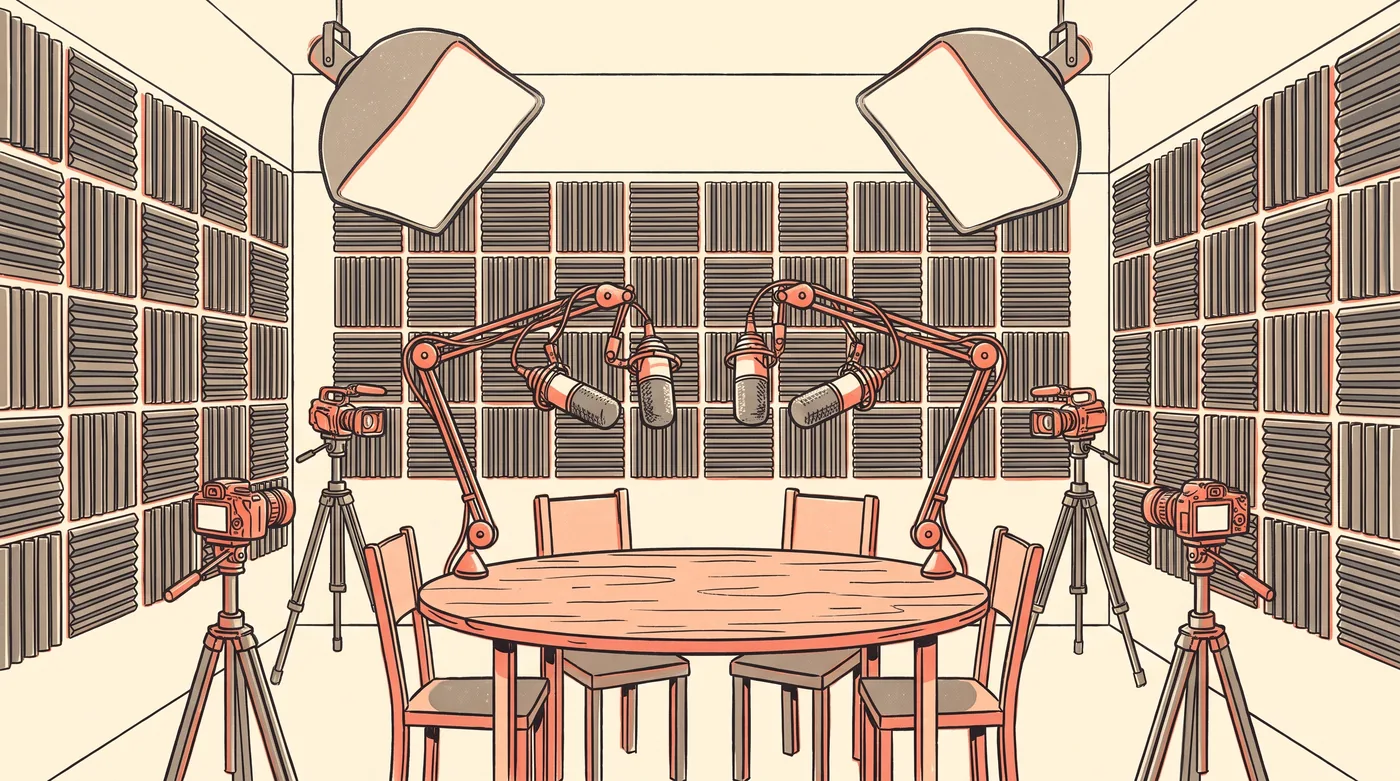
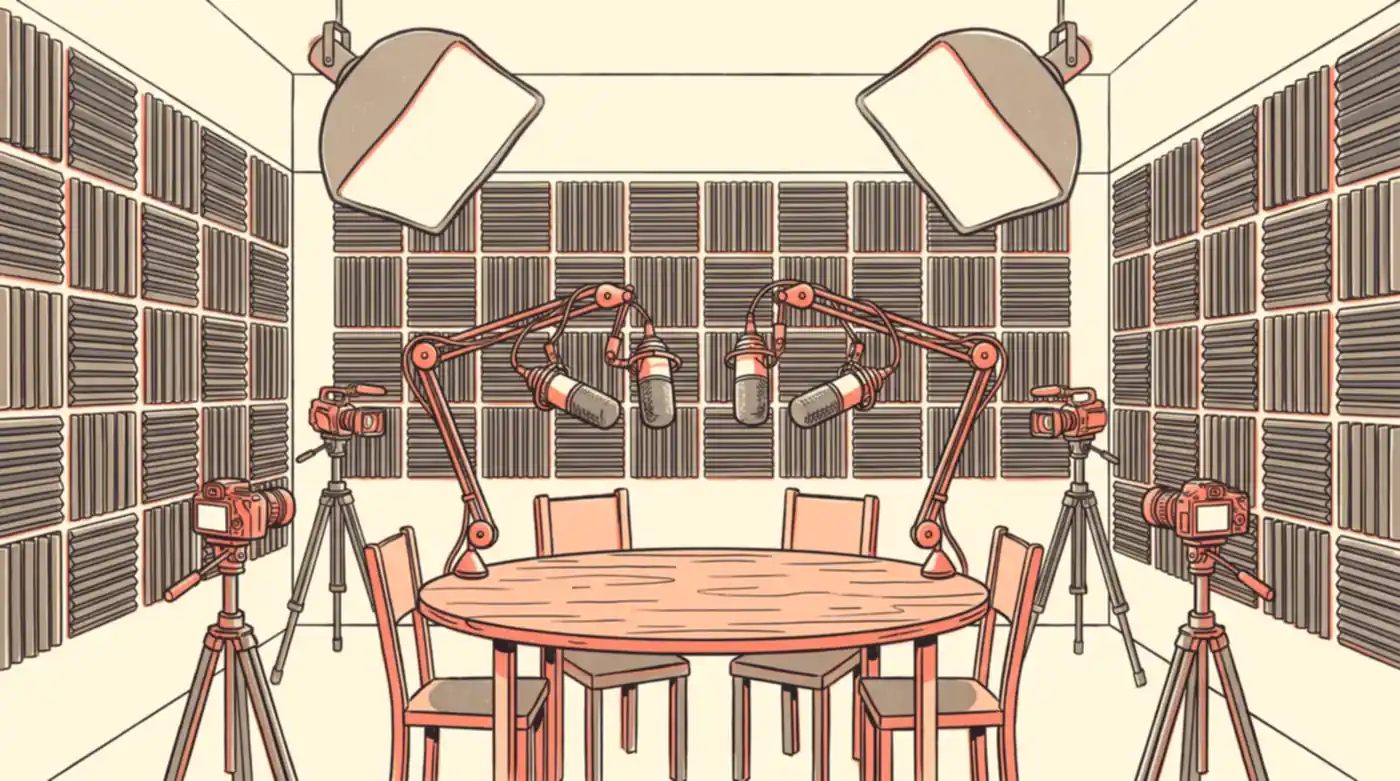
WP3: room page fold, spec row, honest room copy, MediaSlot cleanup
- Cap the art band at lg (40vh) so #book starts at 801px on 1440x900;
  caption moves out of the image onto the container axis.
- Rates card removed; spec row gains the hourly rate and booking rules
  from BOOKING_CONFIG. H2s use type-section; Good for is a plain line.
- Other rooms: token radius, 96px sizes, hairline instead of a band.
- Metadata: openGraph repeats type/siteName/locale; breadcrumb JSON-LD
  drops the /#rooms fragment item.
- MediaSlot: preload instead of deprecated priority; dead label branch
  removed; poster is required.
- rooms-data copy grounded in the equipment lists; inch marks spelled out.
- podcast-a.webp re-encoded 203 KB -> 74 KB at 1400x781.

Claude-Session: https://claude.ai/code/session_01BZXVSE9tt3Z83wFD8iV5RK

diff --git a/src/app/(site)/rooms/[id]/page.tsx b/src/app/(site)/rooms/[id]/page.tsx
@@ -3,13 +3,13 @@ import Link from "next/link";
 import { Suspense } from "react";
 import { notFound } from "next/navigation";
 import { getRoomById, ROOMS } from "@/lib/rooms-data";
-import { SITE_URL } from "@/lib/site-config";
+import { SITE, SITE_URL } from "@/lib/site-config";
 import { MediaSlot } from "@/components/MediaSlot";
 import Image from "next/image";
 import { JsonLd } from "@/components/JsonLd";
-import { formatUsd, formatUsdPerHour } from "@/lib/format";
+import { formatUsdPerHour } from "@/lib/format";
 import { BookingFlow } from "@/components/booking/BookingFlow";
-import { ROOM_TYPE_LABELS } from "@/types/domain";
+import { BOOKING_CONFIG, ROOM_TYPE_LABELS } from "@/types/domain";
 
 export function generateStaticParams() {
   return ROOMS.filter((r) => r.active).map((r) => ({ id: r.id }));
@@ -19,11 +19,21 @@ export async function generateMetadata(props: PageProps<"/rooms/[id]">): Promise
   const room = getRoomById((await props.params).id);
   if (!room) return {};
   const title = `${room.name}: ${ROOM_TYPE_LABELS[room.type].toLowerCase()} room, ${formatUsdPerHour(room.hourlyRateCents)}`;
+  const description = `${room.tagline} ${room.description}`;
   return {
     title,
-    description: `${room.tagline} ${room.description}`,
+    description,
     alternates: { canonical: `/rooms/${room.id}` },
-    openGraph: { title, description: room.tagline, url: `/rooms/${room.id}`, images: [`/rooms/og/${room.id}.png`] },
+    // openGraph replaces the root layout's object wholesale, so repeat its fields.
+    openGraph: {
+      title,
+      description,
+      url: `/rooms/${room.id}`,
+      type: "website",
+      siteName: SITE.name,
+      locale: "en_US",
+      images: [`/rooms/og/${room.id}.png`],
+    },
   };
 }
 
@@ -68,8 +78,7 @@ export default async function RoomDetailPage(props: PageProps<"/rooms/[id]">) {
             "@type": "BreadcrumbList",
             itemListElement: [
               { "@type": "ListItem", position: 1, name: "Home", item: SITE_URL },
-              { "@type": "ListItem", position: 2, name: "Rooms", item: `${SITE_URL}/#rooms` },
-              { "@type": "ListItem", position: 3, name: room.name, item: url },
+              { "@type": "ListItem", position: 2, name: room.name, item: url },
             ],
           },
         ]}
@@ -91,34 +100,40 @@ export default async function RoomDetailPage(props: PageProps<"/rooms/[id]">) {
             <h1 className="font-display text-5xl font-semibold leading-[0.98] text-text-primary sm:text-7xl">{room.name}</h1>
             <p className="text-xl text-text-secondary sm:text-2xl">{room.tagline}</p>
           </div>
-          <dl className="grid grid-cols-3 gap-6 border-t border-border-subtle pt-5 lg:border-t-0 lg:pt-0">
-            {[
-              ["Type", ROOM_TYPE_LABELS[room.type]],
-              ["Fits", `${room.capacity} people`],
-              ["Size", `${room.sqft} sq ft`],
-            ].map(([k, v]) => (
-              <div key={k} className="flex flex-col gap-1">
-                <dt className="text-sm text-text-secondary">{k}</dt>
-                <dd className="tabular font-semibold text-text-primary">{v}</dd>
-              </div>
-            ))}
-          </dl>
+          <div className="flex flex-col gap-3 border-t border-border-subtle pt-5 lg:border-t-0 lg:pt-0">
+            <dl className="grid grid-cols-2 gap-x-6 sm:grid-cols-4 gap-y-4">
+              {[
+                ["Type", ROOM_TYPE_LABELS[room.type], ""],
+                ["Fits", `${room.capacity} people`, "tabular-nums"],
+                ["Size", `${room.sqft} sq ft`, "tabular-nums"],
+                ["Rate", formatUsdPerHour(room.hourlyRateCents), "tabular"],
+              ].map(([k, v, figures]) => (
+                <div key={k} className="flex flex-col gap-1">
+                  <dt className="text-sm text-text-secondary">{k}</dt>
+                  <dd className={`whitespace-nowrap font-semibold text-text-primary ${figures}`}>{v}</dd>
+                </div>
+              ))}
+            </dl>
+            <p className="text-sm text-text-secondary">
+              Starts on the hour · 1 to 3 hours · {BOOKING_CONFIG.minBookingNoticeHours} hours&apos; notice same day
+            </p>
+          </div>
         </div>
       </section>
 
-      <figure className="relative">
+      <figure>
         <MediaSlot
           video={room.reel}
           poster={`/rooms/art/${room.id}.webp`}
           alt={`Illustration of ${room.name}: ${room.description}`}
-          priority
+          preload
           sizes="100vw"
-          className="aspect-[16/10] w-full sm:aspect-[21/9]"
-          imageClassName="object-cover"
+          className="aspect-[16/10] w-full sm:aspect-[21/9] lg:max-h-[40vh]"
+          imageClassName="object-cover object-center"
         />
         {!room.reel && (
-          <figcaption className="absolute bottom-3 left-3 rounded-token-full bg-surface/90 px-3 py-1 text-xs text-text-secondary">
-            Illustration of the setup
+          <figcaption className="px-6 pt-3 text-sm text-text-secondary">
+            <span className="mx-auto block max-w-6xl">Illustration of the setup</span>
           </figcaption>
         )}
       </figure>
@@ -127,12 +142,12 @@ export default async function RoomDetailPage(props: PageProps<"/rooms/[id]">) {
         <div className="mx-auto grid max-w-6xl gap-12 lg:grid-cols-[minmax(0,1.1fr)_minmax(0,1fr)] lg:gap-16">
           <div className="order-2 flex flex-col gap-12 lg:order-1">
             <section className="flex flex-col gap-4">
-              <h2 className="font-display text-3xl font-semibold text-text-primary">About the room</h2>
+              <h2 className="type-section text-text-primary">About the room</h2>
               <p className="text-lg leading-relaxed text-text-secondary">{room.marketingDescription}</p>
             </section>
 
             <section className="flex flex-col gap-4">
-              <h2 className="font-display text-3xl font-semibold text-text-primary">Included in the rate</h2>
+              <h2 className="type-section text-text-primary">Included in the rate</h2>
               <ul className="grid gap-x-8 gap-y-3 sm:grid-cols-2">
                 {room.equipment.map((item) => (
                   <li key={item} className="border-t border-border-subtle pt-3 leading-snug text-text-primary">
@@ -143,28 +158,8 @@ export default async function RoomDetailPage(props: PageProps<"/rooms/[id]">) {
             </section>
 
             <section className="flex flex-col gap-4">
-              <h2 className="font-display text-3xl font-semibold text-text-primary">Good for</h2>
-              <ul className="flex flex-wrap gap-2">
-                {room.idealFor.map((use) => (
-                  <li key={use} className="rounded-token-full border border-border-default px-4 py-2 text-sm text-text-primary">
-                    {use}
-                  </li>
-                ))}
-              </ul>
-            </section>
-
-            <section className="flex flex-col gap-3 rounded-token-md bg-surface p-6">
-              <h2 className="text-lg font-semibold text-text-primary">Rates</h2>
-              <p className="tabular text-text-secondary">
-                1 hour {formatUsd(room.hourlyRateCents)} · 2 hours {formatUsd(room.hourlyRateCents * 2)} · 3 hours{" "}
-                {formatUsd(room.hourlyRateCents * 3)}
-              </p>
-              <p className="text-sm text-text-secondary">
-                The total at checkout is the total you pay.{" "}
-                <Link href="/faq" className="font-medium text-text-accent hover:underline">
-                  Booking questions
-                </Link>
-              </p>
+              <h2 className="type-section text-text-primary">Good for</h2>
+              <p className="text-lg leading-relaxed text-text-primary">{room.idealFor.join(", ")}</p>
             </section>
           </div>
 
@@ -179,7 +174,7 @@ export default async function RoomDetailPage(props: PageProps<"/rooms/[id]">) {
       {room.clips && room.clips.length > 0 && (
         <section className="border-t border-border-subtle px-6 py-16">
           <div className="mx-auto max-w-6xl">
-            <h2 className="mb-8 font-display text-3xl font-semibold text-text-primary">Inside the room</h2>
+            <h2 className="type-section mb-8 text-text-primary">Inside the room</h2>
             <div className="grid grid-cols-2 gap-4 sm:gap-6 lg:grid-cols-4">
               {room.clips.map((clip, i) => (
                 <MediaSlot
@@ -198,15 +193,16 @@ export default async function RoomDetailPage(props: PageProps<"/rooms/[id]">) {
       )}
 
       {others.length > 0 && (
-        <section className="bg-surface px-6 py-14">
+        <section className="border-t border-border-subtle px-6 py-14">
           <div className="mx-auto grid max-w-6xl gap-6 lg:grid-cols-[minmax(0,1fr)_minmax(0,2fr)] lg:gap-16">
-            <h2 className="font-display text-3xl font-semibold text-text-primary">Other rooms</h2>
+            <h2 className="type-section text-text-primary">Other rooms</h2>
             <ul className="flex flex-col divide-y divide-border-subtle border-y border-border-subtle">
               {others.map((r) => (
                 <li key={r.id}>
                   <Link href={`/rooms/${r.id}`} className="group flex min-h-16 items-center gap-4 py-3">
-                    <span className="relative h-12 w-16 shrink-0 overflow-hidden rounded-[6px]">
-                      <Image src={`/rooms/art/${r.id}.webp`} alt="" fill sizes="64px" className="object-cover" />
+                    <span className="relative h-12 w-16 shrink-0 overflow-hidden rounded-token-sm">
+                      {/* The 16:9 art covers a 4:3 box, so it renders ~86px wide, not 64. */}
+                      <Image src={`/rooms/art/${r.id}.webp`} alt="" fill sizes="96px" className="object-cover" />
                     </span>
                     <span className="flex min-w-0 flex-1 flex-col">
                       <span className="font-semibold text-text-primary group-hover:text-text-accent">{r.name}</span>

diff --git a/src/lib/rooms-data.ts b/src/lib/rooms-data.ts
@@ -1,13 +1,14 @@
 import type { Room } from "@/types/domain";
 
 /**
- * The six placeholder rooms — two Content, two Podcast, two Conference.
- * Matches the design package (Section 5.2) exactly.
+ * The room catalog: two Content, two Podcast, two Conference rooms.
  *
- * This is the ONLY place room data is defined. Everything else (filters,
- * badges, cards, seed script) reads from here. Add a seventh room, or a
- * fourth category, by editing this list and ROOM_TYPE_LABELS in
- * src/types/domain.ts — no component or page needs to change.
+ * This is the only place room data is defined; pages, the booking engine and
+ * pricing all read from here. Add a room, or a category (with
+ * ROOM_TYPE_LABELS in src/types/domain.ts), by editing this list.
+ *
+ * Marketing copy must stay grounded in each room's equipment list: no claims
+ * the listed gear does not back up.
  */
 export const ROOMS: Room[] = [
   {
@@ -18,7 +19,7 @@ export const ROOMS: Room[] = [
     sqft: 300,
     hourlyRateCents: 4500,
     description:
-      "Bright, modular content studio built for batch-producing TikTok and Reels content, with a motorized interchangeable backdrop wall.",
+      "A modular content studio for batching TikTok and Reels, with a motorized interchangeable backdrop wall.",
     equipment: [
       "Motorized backdrop system (pink / green screen / white paper)",
       "3× ring lights + RGB tube lights",
@@ -28,7 +29,7 @@ export const ROOMS: Room[] = [
     active: true,
     tagline: "Batch a month of content in one afternoon.",
     marketingDescription:
-      "The Loft is built around one idea: momentum. The motorized backdrop wall swaps your set in seconds: pink, green screen, or clean white paper, so you can shoot ten looks without ever breaking flow. Three lit stations mean your whole team can film at once, and the wireless lapel mics keep every take usable straight off the phone.",
+      "The motorized backdrop wall changes your set between pink, green screen and white paper, so one session can cover several looks. Three ring lights, RGB tube lights and three phone tripod mounts let more than one setup run at once, and a two-pack of DJI Mic 2 wireless lapel mics covers two speakers.",
     idealFor: ["TikTok & Reels batching", "UGC creators", "Product try-ons & hauls", "Small brand shoots"],
   },
   {
@@ -47,9 +48,9 @@ export const ROOMS: Room[] = [
       "1× wireless lapel mic",
     ],
     active: true,
-    tagline: "Your first studio, minus the setup.",
+    tagline: "Your first studio, lights included.",
     marketingDescription:
-      "One clean white set, two ring lights, and a mic that's already on its stand when you walk in. The Studio strips filming down to the part that matters: you, on camera, without hauling gear or lighting a room from scratch. Ideal when it's just you (or you plus one) and a list of videos to knock out.",
+      "One white muslin backdrop, two ring lights, a phone tripod mount and a wireless lapel mic you clip on, all included in the rate. The Studio is sized for filming on your own or with one other person, without bringing your own lights. Good when you have a list of videos to get through.",
     idealFor: ["Solo creators", "Talking-head video", "Tutorials & how-tos", "Two-person shoots"],
   },
   {
@@ -70,7 +71,7 @@ export const ROOMS: Room[] = [
     active: true,
     tagline: "Press record. Sound like a network show.",
     marketingDescription:
-      "Four broadcast mics on boom arms, three cameras already framed, and full acoustic treatment on every wall. The Suite is what your show sounds like when the room stops working against you. Walk in, sit down, hit record; leave with multi-cam video and clean audio for up to four hosts, no engineering degree required.",
+      "Four Shure SM7B mics on boom arms, three Sony FX30 cameras in a static multi-cam setup, and acoustic treatment on every wall, lit by overhead LED key lights and softboxes. The Suite seats up to four hosts, so a panel or a multi-host show can record audio and video in one session.",
     idealFor: ["Multi-host shows", "Video podcasts", "Interview series", "Panel recordings"],
   },
   {
@@ -89,9 +90,9 @@ export const ROOMS: Room[] = [
       "Softbox lighting kit",
     ],
     active: true,
-    tagline: "Two chairs, two mics, zero echo.",
+    tagline: "Two chairs, two mics, treated walls.",
     marketingDescription:
-      "Sized for exactly what most episodes actually are: two people and a real conversation. The same broadcast mics as the big suite, a camera setup that's already framed for two, and acoustic treatment that keeps small-room echo out of your recording. Book it for an hour, leave with an episode.",
+      "Sized for two people and a conversation. The same Shure SM7B mics as the Podcast Suite, a static multi-cam setup, partial acoustic wall treatment and a softbox lighting kit. A good fit for interviews, co-hosted episodes and voiceover sessions.",
     idealFor: ["Interview shows", "Co-hosted episodes", "Audio-first podcasts", "Voiceover sessions"],
   },
   {
@@ -104,7 +105,7 @@ export const ROOMS: Room[] = [
     description:
       "A sound-isolated executive boardroom for client meetings, board sessions, and presentations.",
     equipment: [
-      '75" display, AirPlay + HDMI',
+      "75-inch display, AirPlay and HDMI",
       "4K speaker-tracking webcam",
       "Ceiling microphone array",
       "Dedicated fiber Wi-Fi network",
@@ -112,7 +113,7 @@ export const ROOMS: Room[] = [
     active: true,
     tagline: "Walk in prepared. Walk out decided.",
     marketingDescription:
-      "Sound-isolated, seats ten, and wired so the technology disappears: a 75-inch display that connects the moment you walk in, a camera that tracks whoever's speaking, and a ceiling mic array that means nobody leans into anything. The Boardroom is for the meetings where the impression matters as much as the agenda.",
+      "Sound-isolated and seats ten: a 75-inch display with AirPlay and HDMI, a 4K webcam that tracks whoever is speaking, and a ceiling microphone array for the table. The Boardroom is for the meetings where the impression matters as much as the agenda.",
     idealFor: ["Client presentations", "Board sessions", "Hybrid meetings", "Workshops & strategy days"],
   },
   {
@@ -125,7 +126,7 @@ export const ROOMS: Room[] = [
     description:
       "A smaller sound-isolated meeting room for team syncs and small-group client calls.",
     equipment: [
-      '55" display, AirPlay + HDMI',
+      "55-inch display, AirPlay and HDMI",
       "4K webcam",
       "Ceiling microphone",
       "Dedicated fiber Wi-Fi network",
@@ -133,7 +134,7 @@ export const ROOMS: Room[] = [
     active: true,
     tagline: "Small room. Serious signal.",
     marketingDescription:
-      "Everything the Boardroom promises, scaled for six: sound isolation, one-tap screen sharing on a 55-inch display, and a ceiling mic that picks up the whole table evenly. The Meeting Room is the fix for taking an important call from a coffee shop, or worse, a car.",
+      "Sound-isolated and seats six: screen sharing to a 55-inch display over AirPlay or HDMI, a 4K webcam, and a ceiling microphone for the table. The Meeting Room is the fix for taking an important call from a coffee shop, or worse, a car.",
     idealFor: ["Team syncs", "Client calls", "Working sessions", "Interviews"],
   },
 ];

diff --git a/src/components/MediaSlot.tsx b/src/components/MediaSlot.tsx
@@ -4,52 +4,36 @@ import { useEffect, useRef } from "react";
 import Image from "next/image";
 
 /**
- * MediaSlot — the single B-roll seam for the whole site.
+ * MediaSlot: the B-roll seam for room media (room page band and clips strip).
  *
- * Every place the site shows a room (homepage showcase tiles, room detail
- * hero, the clips strip, cross-sell cards) renders through here, so when real
- * footage arrives it is a data change in `rooms-data.ts`, not a layout change
- * in six components.
- *
- * DROP-IN PATHS, for whoever has the footage:
+ * When real footage arrives it is a data change in `rooms-data.ts`, not a
+ * layout change:
  *   public/rooms/video/<room-id>.mp4        -> that room's hero reel
  *   public/rooms/video/<room-id>-01.mp4 ..  -> that room's clips strip
- * then add `reel` / `clips` to the room in `src/lib/rooms-data.ts`. Nothing
- * else needs to change. Keep clips short, silent and loopable: they are
- * atmosphere, not content, and they autoplay muted.
+ * Keep clips short, silent and loopable: they autoplay muted.
  *
- * Resolution order, deliberately: video -> still image -> labelled slot.
- * The labelled slot is the honest-placeholder pattern this repo already uses
- * for room photography (design-verified 2.7, PROJECT_CONTEXT §7). It says what
- * is missing in visitor-facing language rather than showing a broken frame,
- * and callers that have an illustration should pass it as `poster` so the slot
- * never appears on a public surface that has something real to show.
+ * Renders the video when there is one, otherwise the still `poster` image.
  *
- * REDUCED MOTION: `autoPlay` is a mount-time attribute, so flipping a prop
- * later does not stop a video that is already playing. The effect below pauses
- * it directly and hands the visitor controls instead. It also listens for the
- * preference changing mid-session. Autoplaying video is exactly what
- * `prefers-reduced-motion` exists to stop, and design-verified 2.6 makes the
- * collapse non-optional rather than dial-gated.
+ * REDUCED MOTION: `autoPlay` is a mount-time attribute, so the effect below
+ * pauses the video directly and hands the visitor controls instead, and
+ * follows the preference if it changes mid-session (design-verified 2.6).
  */
 export function MediaSlot({
   video,
   poster,
   alt,
-  label = "Footage coming soon",
   className = "",
   imageClassName = "",
   sizes = "100vw",
-  priority = false,
+  preload = false,
 }: {
   video?: string;
-  poster?: string;
+  poster: string;
   alt: string;
-  label?: string;
   className?: string;
   imageClassName?: string;
   sizes?: string;
-  priority?: boolean;
+  preload?: boolean;
 }) {
   const ref = useRef<HTMLVideoElement>(null);
 
@@ -65,7 +49,7 @@ export function MediaSlot({
         el.controls = false;
         void el.play().catch(() => {
           /* Autoplay can be refused (data saver, low power). The poster frame
-             stays up, which is a fine resting state — not worth surfacing. */
+             stays up, which is a fine resting state. */
         });
       }
     };
@@ -94,19 +78,9 @@ export function MediaSlot({
     );
   }
 
-  if (poster) {
-    return (
-      <div className={`relative overflow-hidden bg-surface ${className}`}>
-        <Image src={poster} alt={alt} fill sizes={sizes} priority={priority} className={imageClassName} />
-      </div>
-    );
-  }
-
   return (
-    <div
-      className={`relative flex items-center justify-center overflow-hidden border border-border-subtle bg-surface-raised ${className}`}
-    >
-      <span className="tabular px-6 text-center text-xs text-text-secondary">{label}</span>
+    <div className={`relative overflow-hidden bg-surface ${className}`}>
+      <Image src={poster} alt={alt} fill sizes={sizes} preload={preload} className={imageClassName} />
     </div>
   );
 }
